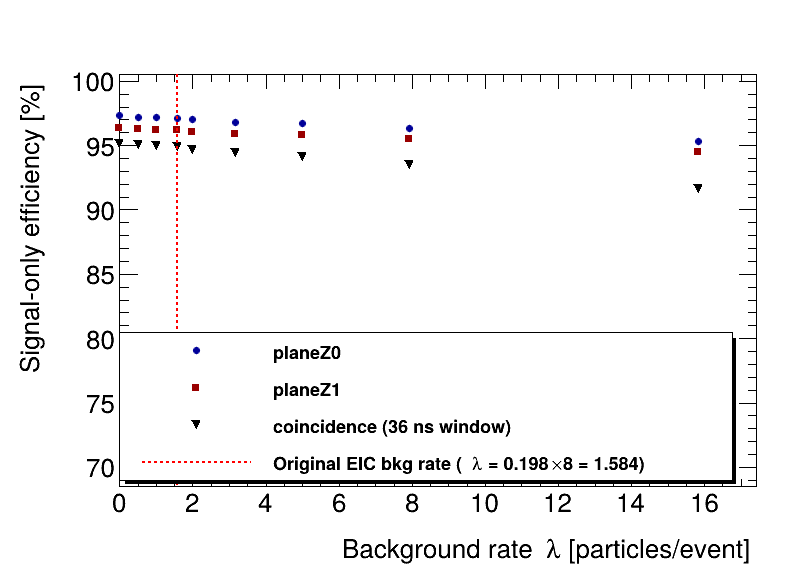
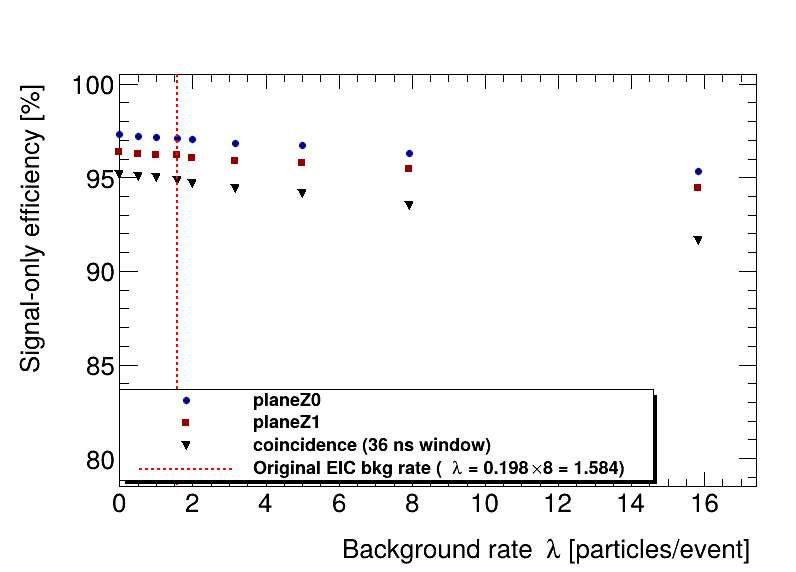
Working till here. Next step change sampling strategy.

diff --git a/plotting_scripts/BkgEff.c b/plotting_scripts/BkgEff.c
@@ -55,7 +55,7 @@ void BkgEff(int withCoin = 0, const char* resDir = "Results", const char* outDir
     if (mEff.empty()) { std::cerr << "No data read from " << bkgCsv << std::endl; return; }
 
     // Global y range across all planes
-    double yMin = 70., yMax = 99.;
+    double yMin = 80., yMax = 99.;
     // for (std::map<int, std::vector<double>>::iterator it = mEff.begin(); it != mEff.end(); ++it)
     // {
     //     for (size_t i = 0; i < it->second.size(); ++i)
@@ -131,7 +131,7 @@ void BkgEff(int withCoin = 0, const char* resDir = "Results", const char* outDir
     c->SetBottomMargin(0.15);
     c->SetTopMargin(0.13);
 
-    TLegend *leg = new TLegend(0.15, 0.16, 0.92, 0.42);
+    TLegend *leg = new TLegend(0.15, 0.16, 0.82, 0.32);
     leg->SetTextSize(0.035);
     int colors[6] = {kBlue+2, kRed+2, kGreen+2, kMagenta+2, kOrange+7, kCyan+2};
     int colIdx = 0;
